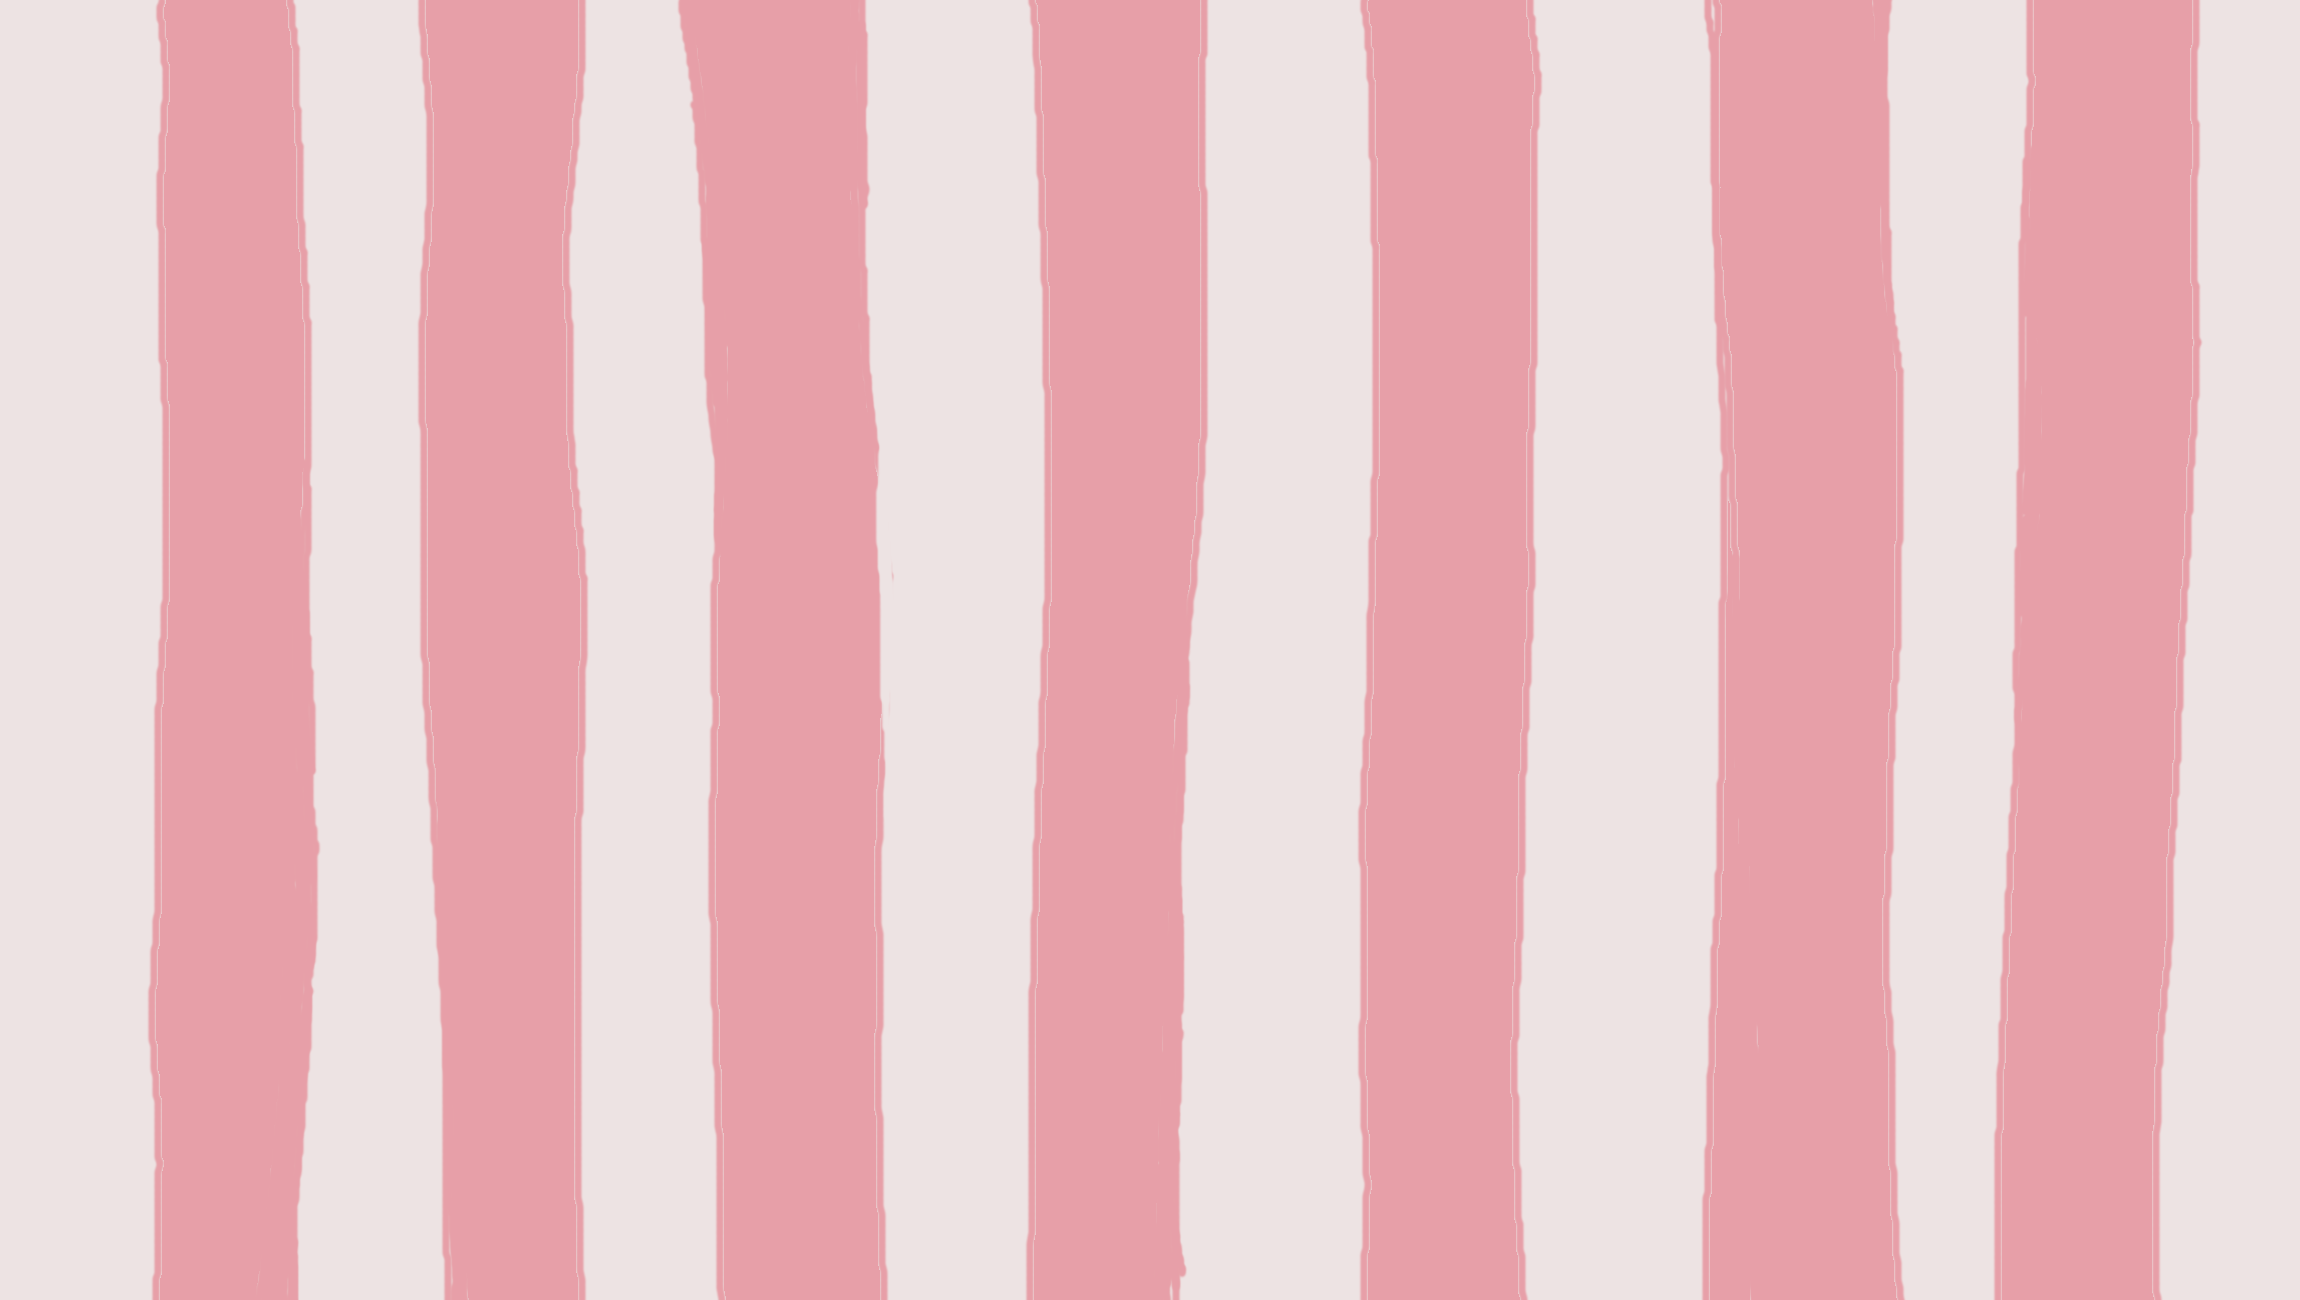
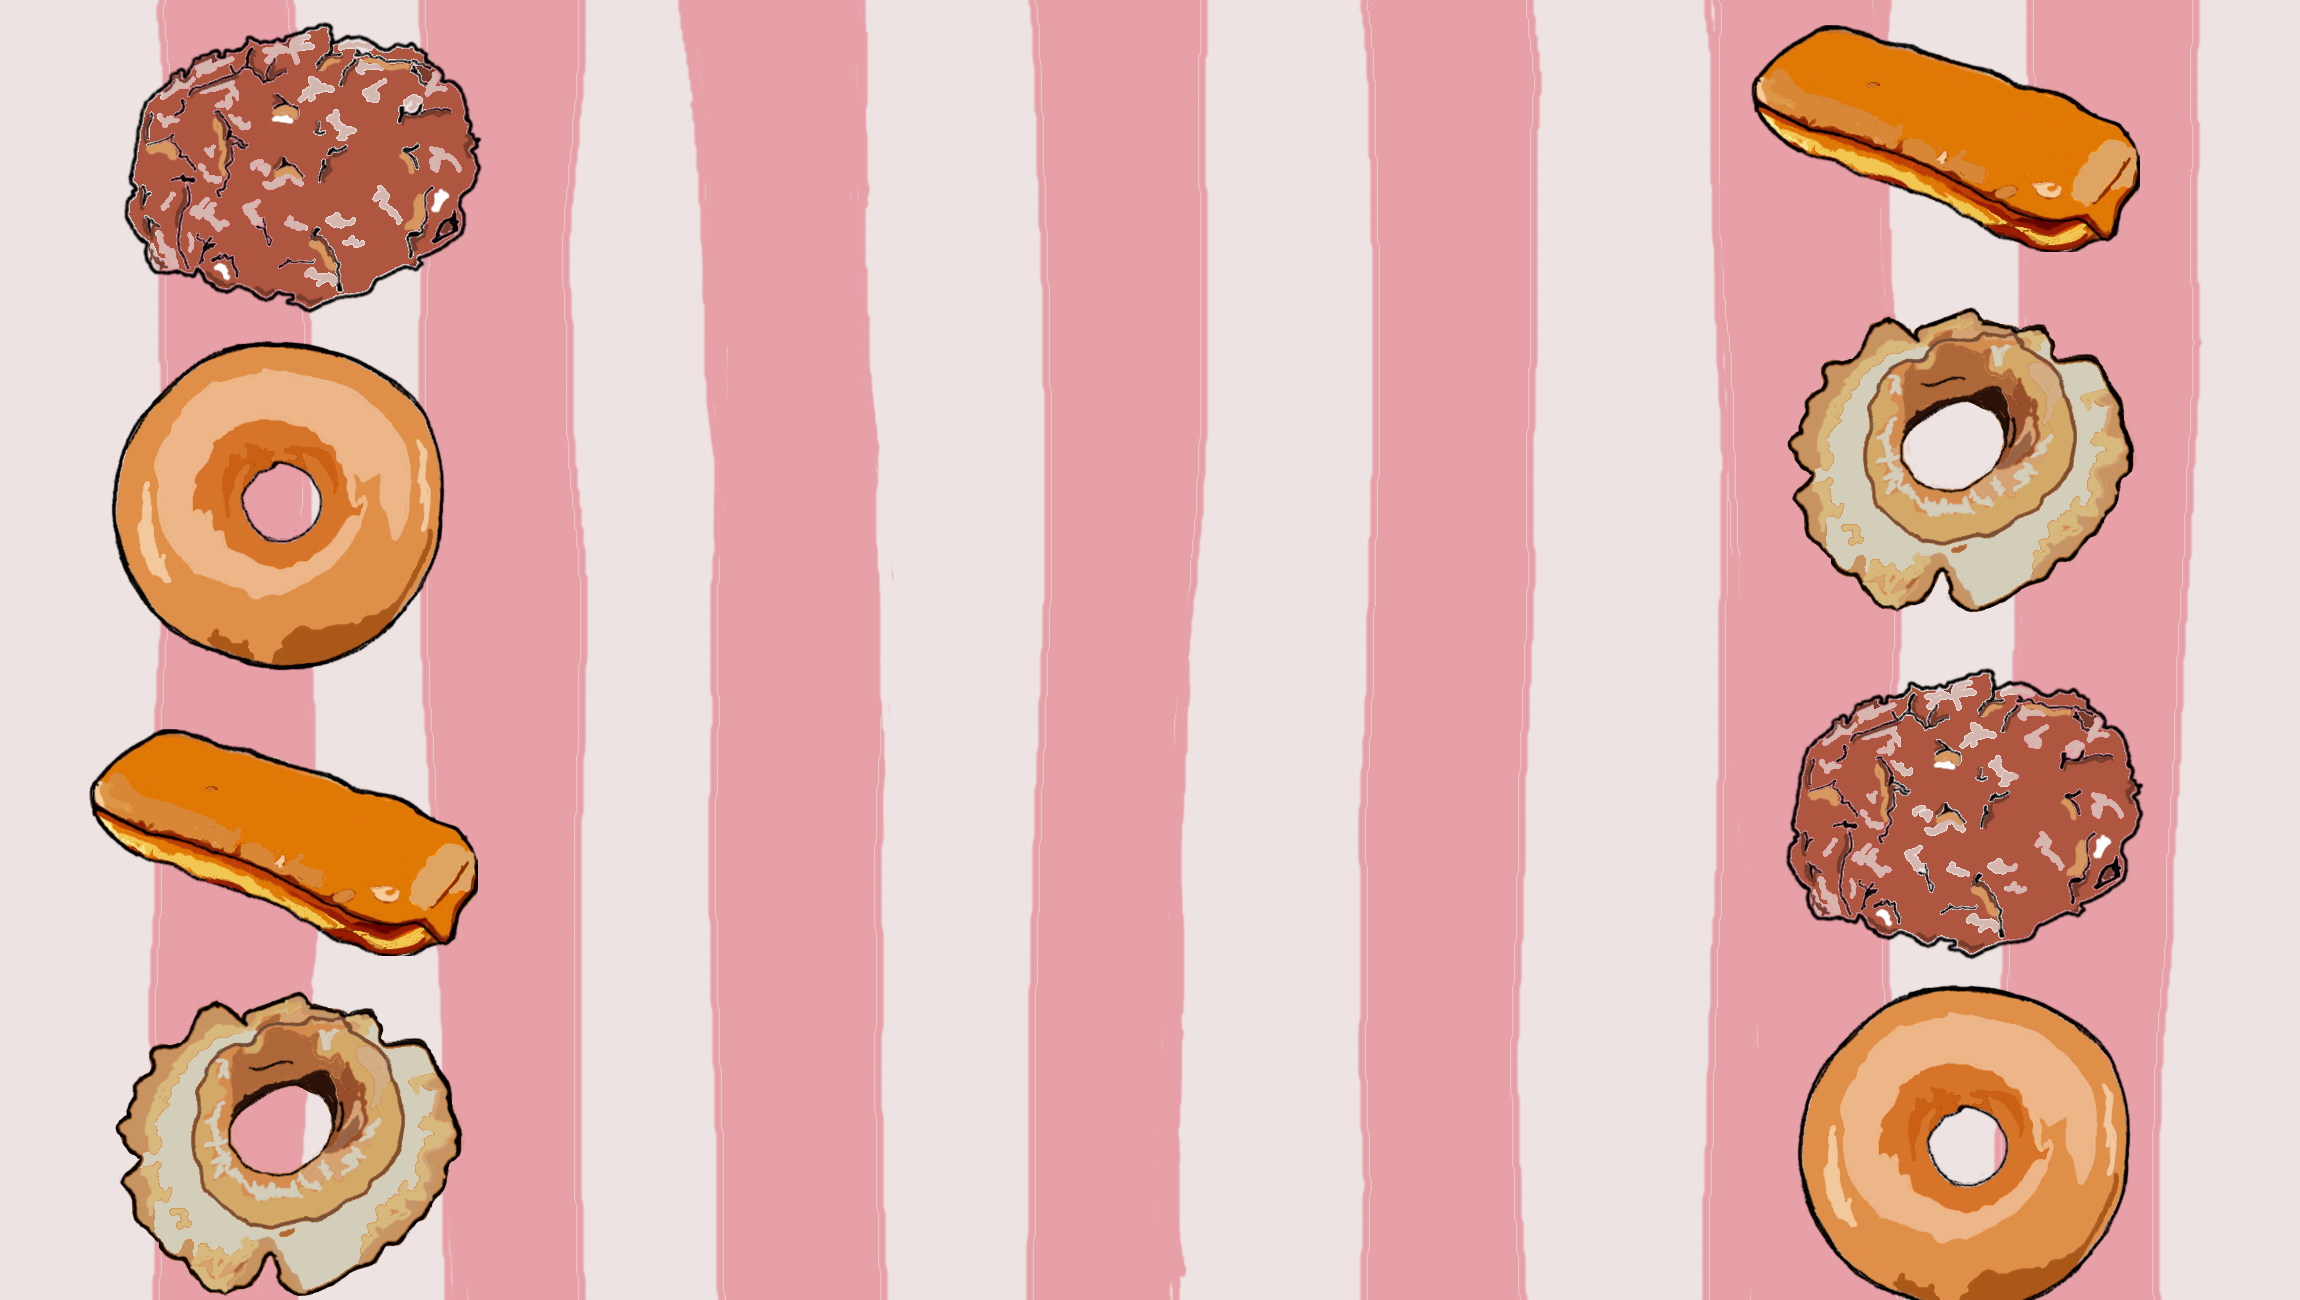
adding donut box open and close animation, changing background

diff --git a/donuts/src/game/scenes/MainMenu.js b/donuts/src/game/scenes/MainMenu.js
@@ -32,14 +32,52 @@ export class MainMenu extends Scene {
 
     showInitialImages(callback) {
         this.add.image(512, 384, 'background');
+    
+        const showImage = (x, y, key, delay, next) => {
+            const image = this.add.image(x, y, key).setDepth(200);
+            this.time.delayedCall(delay, () => {
+                image.destroy();
+                if (next) {
+                    next();
+                } else {
+                    callback();
+                }
+            });
+        };
+    
+        showImage(612, 495, 'closed', 300, () => {
+            showImage(612, 495, 'mostlyclosed', 300, () => {
+                showImage(612, 495, 'halfway', 300, () => {
+                    showImage(612, 495, 'mostlyopen', 300, callback);
+                });
+            });
+        });
+    }
 
-        const firstImage = this.add.image(612, 495, 'first-donut').setDepth(200);
-        this.time.delayedCall(300, () => {
-            firstImage.destroy();
-            const secondImage = this.add.image(612, 495, 'second-donut').setDepth(200);
-            this.time.delayedCall(300, () => {
-                secondImage.destroy();
-                callback();
+    reverseImages(callback) {
+        const showImage = (x, y, key, delay, next) => {
+            const image = this.add.image(x, y, key).setDepth(200);
+            this.tweens.add({
+                targets: image,
+                scaleX: 0.5,
+                scaleY: 0.5,
+                duration: delay,
+                onComplete: () => {
+                    image.destroy();
+                    if (next) {
+                        next();
+                    } else {
+                        callback();
+                    }
+                }
+            });
+        };
+
+        showImage(612, 495, 'mostlyopen', 300, () => {
+            showImage(612, 495, 'halfway', 300, () => {
+                showImage(612, 495, 'mostlyclosed', 300, () => {
+                    showImage(612, 495, 'closed', 300, callback);
+                });
             });
         });
     }
@@ -102,12 +140,12 @@ export class MainMenu extends Scene {
                 this.logo.destroy();
             }
 
-            this.logo = this.add.image(612, 495,imageName).setDepth(200);
+            this.logo = this.add.image(612, 495, imageName).setDepth(200);
             
             this.addSprite(spriteName);
 
-            const url = `${window.location.origin}/${name.toLowerCase()}`;
-            this.time.delayedCall(5000, () => {
+            this.reverseImages(() => {
+                const url = `${window.location.origin}/${name.toLowerCase()}`;
                 window.location.href = url;
             });
         });
@@ -144,8 +182,8 @@ export class MainMenu extends Scene {
             
             this.addSprite(spriteName);
 
-            const url = `${window.location.origin}/${label.toLowerCase()}`;
-            this.time.delayedCall(5000, () => {
+            this.reverseImages(() => {
+                const url = `${window.location.origin}/${label.toLowerCase()}`;
                 window.location.href = url;
             });
         });

diff --git a/donuts/src/game/scenes/Boot.js b/donuts/src/game/scenes/Boot.js
@@ -13,6 +13,16 @@ export class Boot extends Scene
         //  The smaller the file size of the assets, the better, as the Boot Scene itself has no preloader.
 
         this.load.image('background', 'assets/donutwallpaper.png');
+        
+        this.load.image('closed', 'assets/closeddonuts.png');
+
+        this.load.image('mostlyclosed', 'assets/mostcloseddonutbox.png');
+
+        this.load.image('halfway', 'assets/halfwayopendonut.png');
+
+        this.load.image('mostlyopen', 'assets/mostlyopendonut.png');
+
+
         this.load.image('first-donut', 'assets/missing-donut-1.png');
         this.load.image('second-donut', 'assets/missing-donut-2.png');
 
